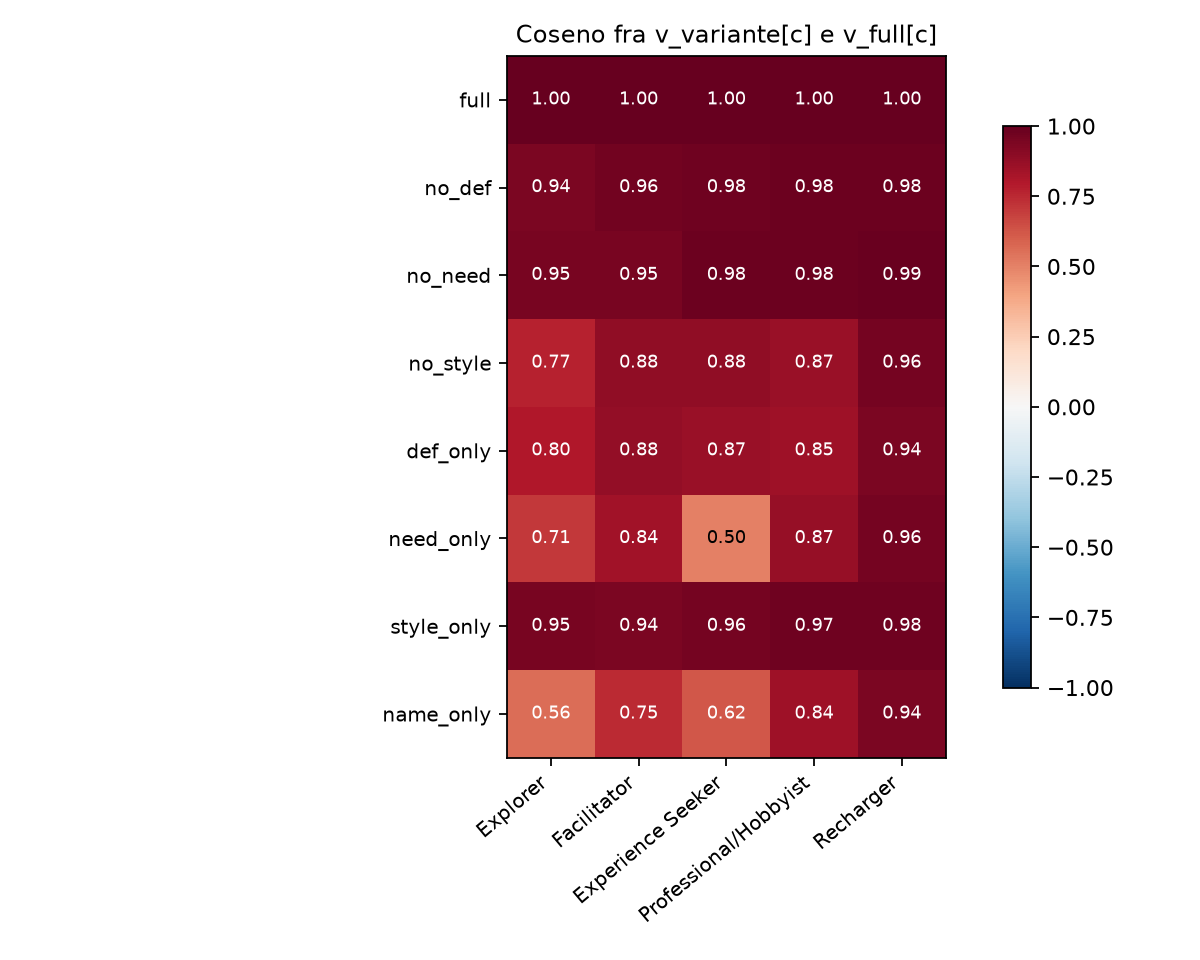
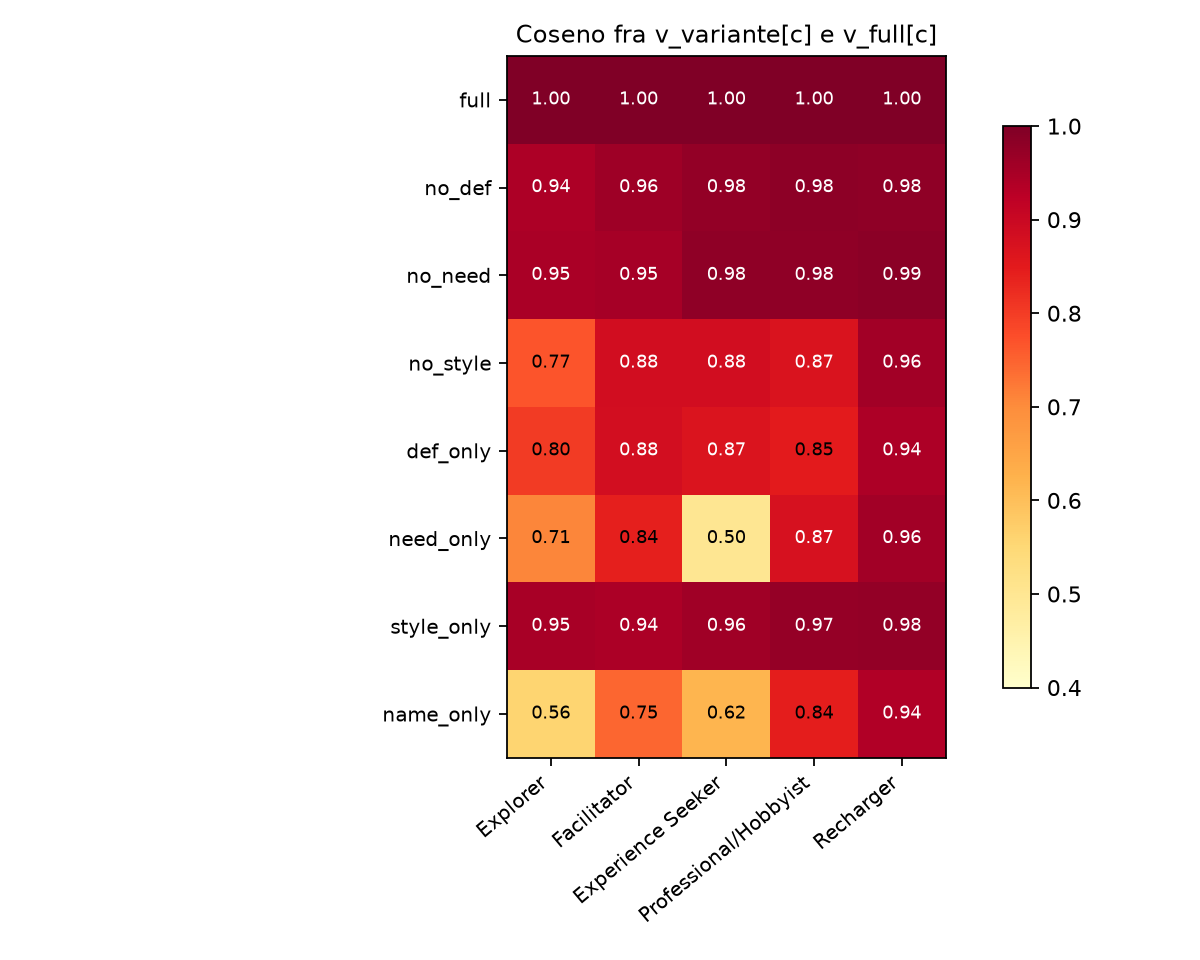
fix(ablation): sequential heatmap palette, neutral steering-bar colour
Fix round 1 dalla review del Task 9:
- fig_cosine_heatmap: cmap sequenziale YlOrRd con range ristretto (vmin=0.4,
  vmax=1.0) invece di RdBu_r su [-1, 1], che appiattiva tutte le celle
  (0.77-0.99) sullo stesso rosso scuro. Soglia colore testo aggiornata a 0.85.
  Aggiunta docstring.
- fig_bars: barre ||v|| media in grigio neutro (#9E9E9E) invece di #E8743B,
  che coincideva con COLORS["explorer"] nel pannello sottostante.

diff --git a/src/ablation.py b/src/ablation.py
@@ -148,7 +148,7 @@ def fig_bars(res: dict, path: Path) -> None:
     a.set_ylabel("accuracy")
     a.set_ylim(0, 1.05)
     a2 = a.twinx()
-    a2.bar(x + 0.2, [R[v]["norm_mean"] for v in vs], 0.4, color="#E8743B", label="||v|| media")
+    a2.bar(x + 0.2, [R[v]["norm_mean"] for v in vs], 0.4, color="#9E9E9E", label="||v|| media")
     a2.set_ylabel("norma media steering")
     h1, l1 = a.get_legend_handles_labels()
     h2, l2 = a2.get_legend_handles_labels()
@@ -177,16 +177,17 @@ def fig_bars(res: dict, path: Path) -> None:
 
 
 def fig_cosine_heatmap(res: dict, path: Path) -> None:
+    """Heatmap variante x categoria del coseno con full, su scala sequenziale ristretta al range osservato."""
     vs = [v for v in VARIANTS if v in res["variants"]]
     M = np.array([[res["variants"][v]["cos_with_full"][LABELS[c]] for c in FALK_CATEGORIES] for v in vs])
     fig, ax = plt.subplots(figsize=(7.5, 6))
-    im = ax.imshow(M, cmap="RdBu_r", vmin=-1, vmax=1)
+    im = ax.imshow(M, cmap="YlOrRd", vmin=0.4, vmax=1.0)
     ax.set_xticks(range(N_FALK), [LABELS[c] for c in FALK_CATEGORIES], rotation=40, ha="right", fontsize=9)
     ax.set_yticks(range(len(vs)), vs, fontsize=9)
     for i in range(len(vs)):
         for j in range(N_FALK):
             ax.text(j, i, f"{M[i, j]:.2f}", ha="center", va="center", fontsize=8,
-                    color="white" if abs(M[i, j]) > 0.55 else "black")
+                    color="white" if M[i, j] > 0.85 else "black")
     ax.set_title("Coseno fra v_variante[c] e v_full[c]", fontsize=11)
     fig.colorbar(im, shrink=0.8)
     fig.tight_layout()
